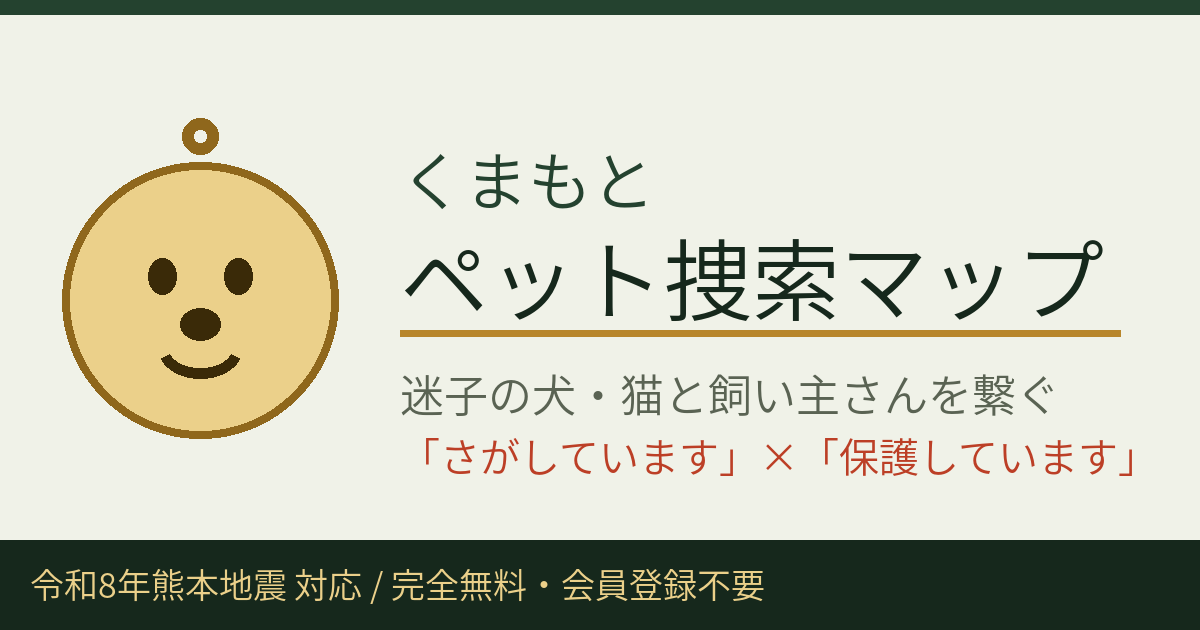
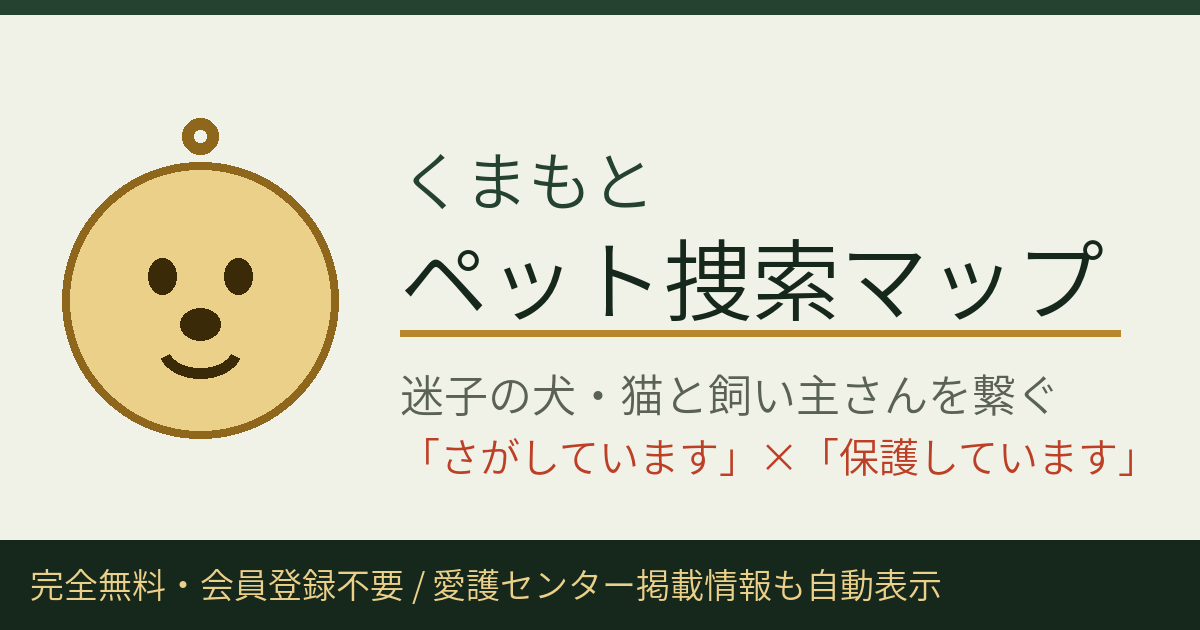
Add files via upload

Changed region(s): [[0.0308, 0.9048, 0.8017, 0.9651]]

diff --git a/static/index.html b/static/index.html
@@ -4,14 +4,14 @@
 <meta charset="UTF-8">
 <meta name="viewport" content="width=device-width, initial-scale=1.0, viewport-fit=cover">
 <title>くまもとペット捜索マップ|迷子の犬・猫と飼い主さんを繋ぐ無料マップ</title>
-<meta name="description" content="令和8年熊本地震で迷子になった犬・猫の捜索情報と保護情報を1つの地図で繋ぐ、完全無料の掲示板です。会員登録不要。">
+<meta name="description" content="熊本で迷子になった犬・猫の捜索情報と保護情報を1つの地図で繋ぐ、完全無料の掲示板です。会員登録不要。">
 <meta property="og:title" content="くまもとペット捜索マップ|迷子の犬・猫と飼い主さんを繋ぐ">
-<meta property="og:description" content="令和8年熊本地震対応。「さがしています」と「保護しています」を1つの地図で。目撃投稿・捜索範囲の共有・チラシ作成まで完全無料。">
+<meta property="og:description" content="熊本の「さがしています」と「保護しています」を1つの地図で。目撃投稿・捜索範囲の共有・チラシ作成まで完全無料。">
 <meta property="og:type" content="website">
 <meta property="og:image" content="/ogp.png">
 <meta name="twitter:card" content="summary_large_image">
 <meta name="twitter:title" content="くまもとペット捜索マップ">
-<meta name="twitter:description" content="令和8年熊本地震対応。迷子の犬・猫と飼い主さんを繋ぐ無料マップ。">
+<meta name="twitter:description" content="熊本の迷子の犬・猫と飼い主さんを繋ぐ無料マップ。">
 <meta name="twitter:image" content="/ogp.png">
 <link rel="stylesheet" href="https://cdnjs.cloudflare.com/ajax/libs/leaflet/1.9.4/leaflet.min.css">
 <link href="https://fonts.googleapis.com/css2?family=Zen+Maru+Gothic:wght@500;700;900&family=Noto+Sans+JP:wght@400;500;700&display=swap" rel="stylesheet">
@@ -55,7 +55,7 @@ header{background:var(--pine);color:#fff;position:sticky;top:0;z-index:1100;box-
 .logo small{display:block;font-size:9px;opacity:.72;letter-spacing:.14em}
 .hwrap .ft{margin-left:auto;background:rgba(255,255,255,.16);border:none;color:#fff;font-size:12.5px;padding:8px 13px;border-radius:999px;font-weight:700;white-space:nowrap;flex:none}
 .mainnav{display:flex;background:var(--pine-deep)}
-.mainnav a{flex:1;text-align:center;color:rgba(255,255,255,.82);padding:12px 4px;font-size:14px;font-weight:700;text-decoration:none;white-space:nowrap;border-top:1px solid rgba(255,255,255,.08)}
+.mainnav a{flex:1;text-align:center;color:rgba(255,255,255,.82);padding:12px 2px;font-size:13.5px;font-weight:700;text-decoration:none;white-space:nowrap;border-top:1px solid rgba(255,255,255,.08)}
 .mainnav a.on{background:rgba(255,255,255,.13);color:#fff;box-shadow:inset 0 -3.5px 0 var(--brass-light)}
 .mainnav a.cta{background:var(--clay);color:#fff}
 
@@ -270,7 +270,7 @@ footer a{color:#E4C878}
 </style>
 </head>
 <body>
-<div class="quake-band">🐾 <b>令和8年(2026年)熊本地震 対応</b> — このサイトは完全無料・非営利で運営しています。緊急の人命救助は119へ。</div>
+<div class="quake-band">🐾 完全無料・非営利で運営しています。令和8年熊本地震の迷子・保護情報も掲載中です。</div>
 <header>
   <div class="hwrap">
     <a class="logo" href="#/">
@@ -289,14 +289,14 @@ footer a{color:#E4C878}
   <nav class="mainnav">
     <a href="#/" data-nav="home">🏠 ホーム</a>
     <a href="#/info" data-nav="info">📞 窓口・注意</a>
-    <a href="#/register" data-nav="register" class="cta">➕ 登録する</a>
+    <a href="#/register" data-nav="register" class="cta">➕ 迷子・保護を登録</a>
   </nav>
 </header>
 
 <main id="app"></main>
 
 <footer>
-  <p>くまもとペット捜索マップ — 令和8年熊本地震 災害対応・完全無料</p>
+  <p>くまもとペット捜索マップ — 熊本の迷子ペットと飼い主さんを繋ぐ・完全無料</p>
   <p style="margin-top:6px">掲載情報は投稿者によるものです。悪質な投稿は各ページの通報ボタンからお知らせください。</p>
   <p style="margin-top:6px">運営: 合同会社CRK(熊本市) / <a href="#/terms">利用規約・プライバシー</a> / <a href="#/contact">お問い合わせ</a></p>
 </footer>
@@ -412,9 +412,9 @@ var homeState = {kind:"lost", species:""};
 function viewHome(){
   app.innerHTML =
   '<div class="hero fade-in">'+
-    '<span class="eyebrow">🐾 令和8年熊本地震 対応 / 完全無料・会員登録不要</span>'+
+    '<span class="eyebrow">🐾 熊本の迷子ペット捜索マップ / 完全無料・会員登録不要</span>'+
     '<h1>はぐれた子と、<br>もう一度会うために。</h1>'+
-    '<p>地震でいなくなった犬・猫と、保護してくれた人を、1つの地図でつなぎます。使い方はかんたん。ぜんぶ無料です。</p>'+
+    '<p>いなくなった犬・猫と、保護してくれた人を、1つの地図でつなぎます。使い方はかんたん。ぜんぶ無料です。</p>'+
     '<div class="hero-actions">'+
       '<a class="btn btn-primary" href="#/register">🔍 いなくなった子を さがす</a>'+
       '<a class="btn btn-found" href="#/register/found">🏠 保護した子を 知らせる</a>'+
@@ -641,7 +641,7 @@ function viewRegister(kind){
       '</div>'+
       '<p class="hint" id="contact-hint"></p>'+
       '<div class="honeypot" aria-hidden="true"><input id="f-website" tabindex="-1" autocomplete="off"></div>'+
-      '<div style="margin-top:22px"><button class="btn btn-primary" id="reg-submit" style="width:100%">この内容で登録する(無料)</button></div>'+
+      '<div style="margin-top:22px"><button class="btn btn-primary" id="reg-submit" style="width:100%">この内容で掲載する(無料)</button></div>'+
       '<p class="hint" style="margin-top:10px">登録後に表示される「管理用URL」でステータス変更(再会報告など)ができます。</p>'+
     '</div>'+
   '</section>';
@@ -791,7 +791,7 @@ function viewRegister(kind){
       location.hash = "#/done/"+r.id+"/"+r.admin_token;
     }).catch(function(e){
       msg.className="msg err"; msg.textContent=e.message;
-      btn.disabled=false; btn.textContent="この内容で登録する(無料)"; window.scrollTo(0,0);
+      btn.disabled=false; btn.textContent="この内容で掲載する(無料)"; window.scrollTo(0,0);
     });
   });
 }
@@ -1517,7 +1517,7 @@ function viewTerms(){
     '<p class="hint">最終更新: 2026年7月31日</p>'+
     '<div class="panel" style="margin-top:14px;font-size:14px;line-height:2">'+
       '<h2 style="font-size:16px">このサイトについて</h2>'+
-      '<p>「くまもとペット捜索マップ」(以下「本サイト」)は、令和8年熊本地震で迷子になったペットと飼い主さんの再会を支援するため、合同会社CRK(熊本市)が<b>完全無料・非営利</b>で運営するサービスです。</p>'+
+      '<p>「くまもとペット捜索マップ」(以下「本サイト」)は、迷子になったペットと飼い主さんの再会を支援するため、合同会社CRK(熊本市)が<b>完全無料・非営利</b>で運営するサービスです(令和8年熊本地震を機に開設)。</p>'+
       '<h2 style="font-size:16px;margin-top:20px">投稿について</h2>'+
       '<p>・投稿された情報(ペットの情報、日時、場所、写真、任意で公開設定した連絡先)は、<b>誰でも閲覧できる形で公開されます</b>。<br>'+
       '・連絡先の公開は任意です。公開しない場合、連絡先は表示されません。<br>'+
